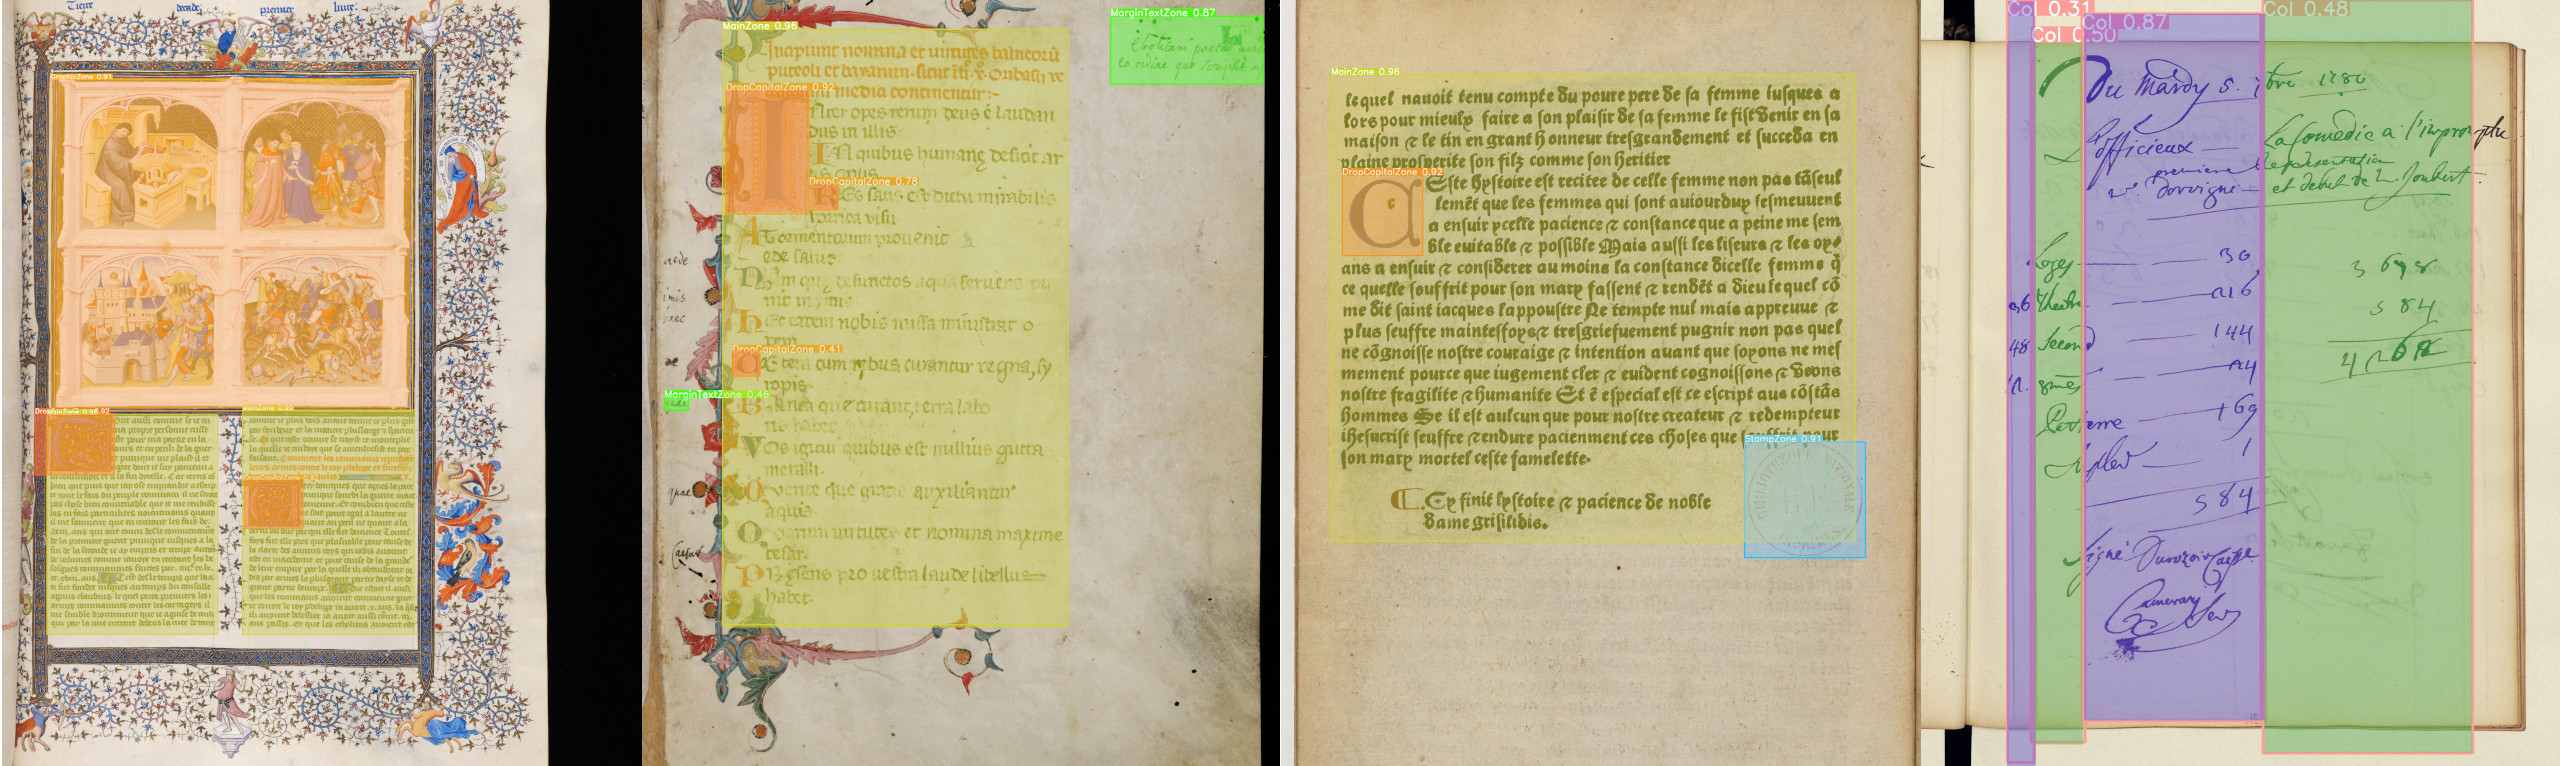
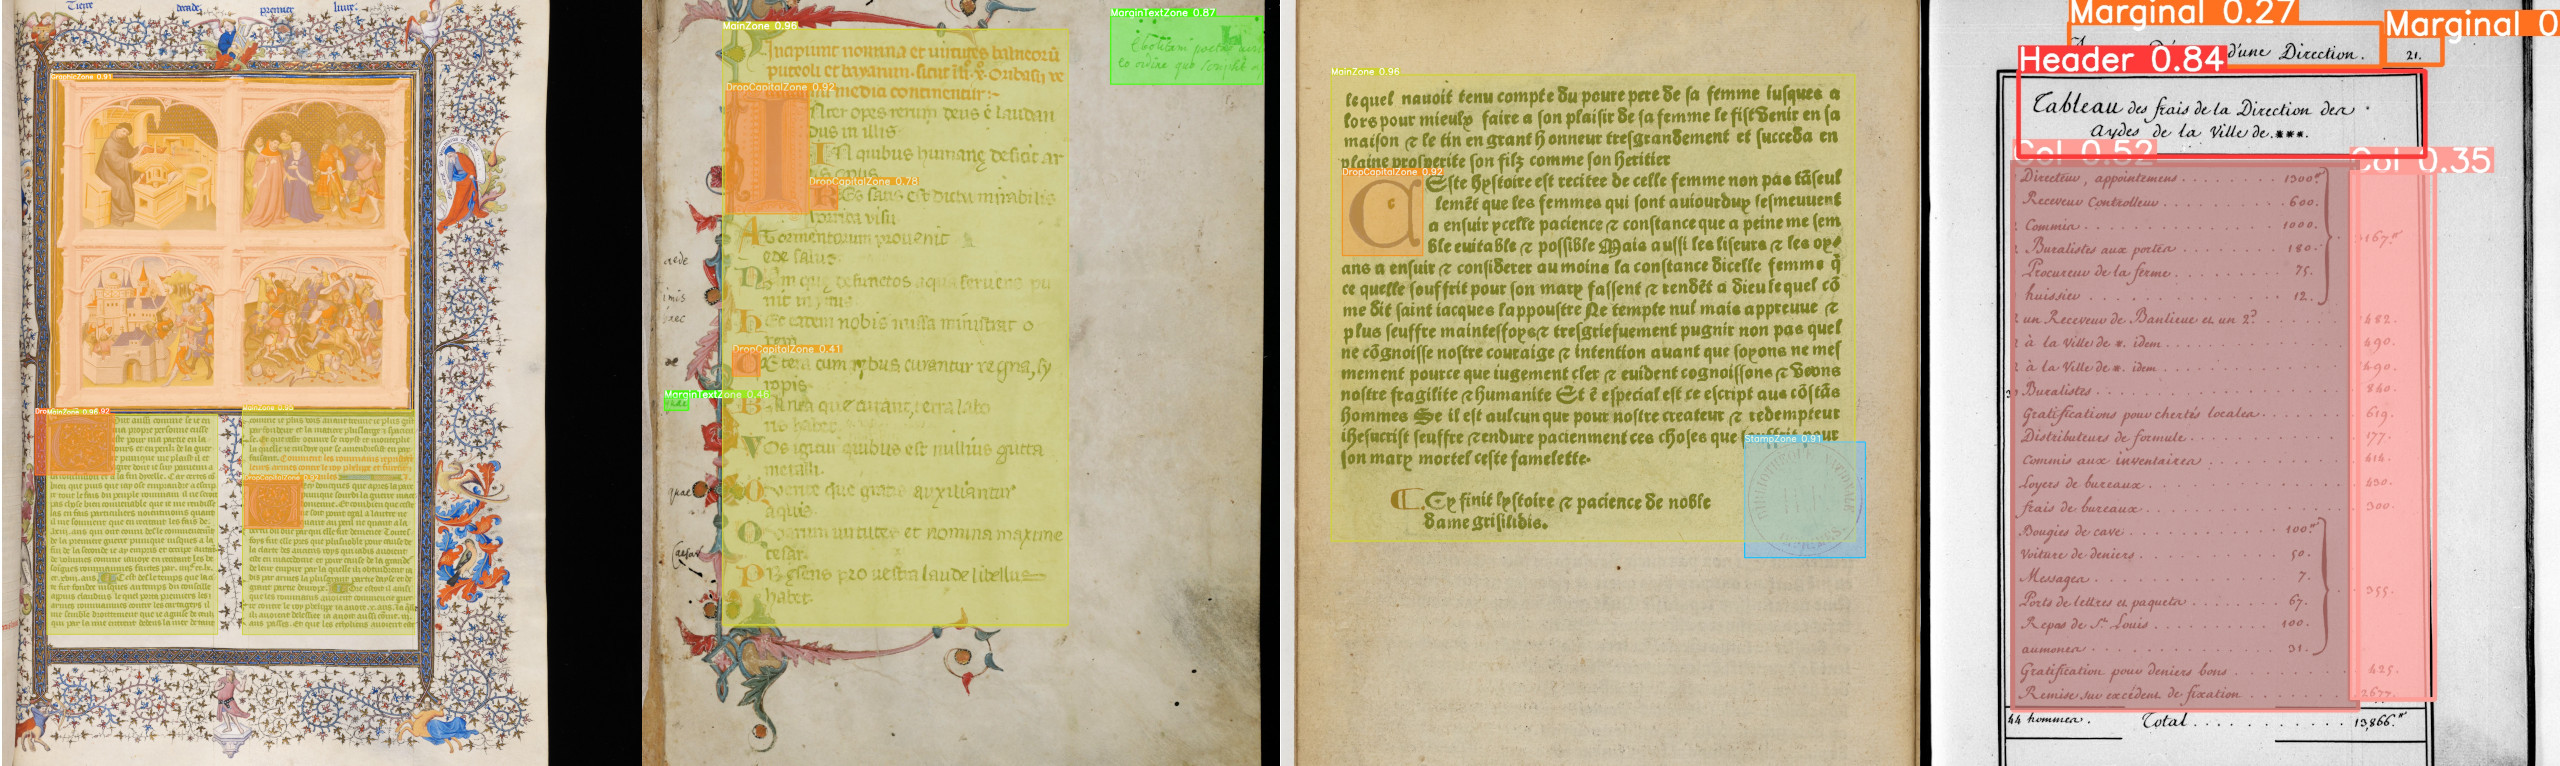
First draft

Changed region(s): [[0.75, 0.0, 1.0, 1.0]]

diff --git a/article.tex b/article.tex
@@ -217,7 +217,7 @@ The tabular dataset was produced using a single source, the \textit{Lectaurep Re
 
 The tabular dataset contains four kinds of zones: Col (Columns), Header, Marginal, Text. The test set was only annotated with Columns and Header, as marginal and text were not clearly defined. The tabular dataset was simplified from the original dataset from \citet{p2021notaires}, as it used a known hack to work ``as intended'' with Kraken. We knowingly put some stress on Kraken on this test. As Kraken relies on pixel classification and less on polygon or bounding box detection, it usually merges together regions of the same kind that are too close to each others. To reduce the effect of these merging errors, the trick learned by the community is to split zones into alternating names, such as ColOdd and ColEven. In the Lectaurep dataset, we found around 16 different way to describe columns, from Col1 to Col7, the case-different col1-col7 and finally ColPair and ColOdd, which we all reduced to Col (see Table \ref{tab:comp:tabular} for the statistical details).
 
-\begin{table}[]
+\begin{table}[ht]
     \centering
     \begin{tabular}{l|rrr|r|rr}
     \hline
@@ -235,11 +235,35 @@ The tabular dataset contains four kinds of zones: Col (Columns), Header, Margina
 
 \subsection{Model Training}
 
+Kraken models were trained according to two different configuration, one with an input resize of 1200 and a second with an input resize of 640, like the recommended YOLOv5 input size. Although Kraken recommends since recently a 1800 resized input, the training, with shuffled input, crashed mainy times because of the GPU RAM limits (roughly 11 GiB). The model was trained for 50 epochs and the best model was selected according to mAP scoring on the development set. Scoring with mAP was produced outside of Kraken as the later does not provide a best model selection.
+
+YOLOv5 models were trained with the latest commit (29d79a6) from the 2\textsuperscript{nd} of July. For both dataset, a model was trained using a YOLOv5x weights for initialization. A second YOLOv5n model was trained for the YALTAi-MSS-EPB dataset to evaluate the impact of the reduction of the size of the models on results: YOLOv5x models is advertised as a 166MiB model while YOLOv5n weights only 4MiB. Both models were trained during 50 epochs. The best model for evaluation was chosen according to YOLOv5 appointed best model.
+
+Models were trained on a Nvidia RTX2080TI with 11GiB of RAM and a TDP of 250W, on Ubuntu with CUDA 10.2 on drivers 440.118.02.
+
 \subsection{Evaluation}
+
+The evaluation is done based on mean average precision (mAP) and average precision (AP). For fairness of the evaluation and to avoid any discrepancies in calculation framework, we used \texttt{mean-average-precision==2021.4.26.0} on the converted ALTO or the YOLOv5 text format. mAP is used with an intersection over union threshold of 0.5 (Usually noted mAP@.5).
 
 \section{Experiments}
 
-\begin{table}[]
+\subsection{Results for YALTAi MSS-EPB}
+
+On the YALTAi MSS-EPB, the mAP of Kraken (6.95\%) results is largely beaten by the YOLOv5x (47.75\%) and the YOLOv5n model (34.63\%, see Table \ref{tab:scores:segmonto}). This lower results is due in part to lower results for the MainZone and DropCapital recognition, which are the most common objects in all splits (YOLOv5n, the worst performing YOLOv5 model, doubles the performance of Kraken on MainZone and nearly triples them on DropCapital). On the other hand, Kraken is also unable to beat a 0\% AP on any of the less frequent objects such as MarginText, Numbering, QuireMarks or RunningTitle, lowering its capacity to reach a higher mAP. mAP being a macro-average metric, it favors models performing on all classes rather than a few classes. However, the score discrepancy on the MainZone is important enough that it wagers using YOLOv5 instead of Kraken segmenter for extracting main body of texts.
+
+As for the difference between the nano (YOLOv5n) and the extra-large (YOLOv5x) models, the difference is small enough on the most frequent zone to accept a performance drop for a faster computation time. However, the YOLOv5X is largely beaten on less frequent classes such as MarginTextZone or NumberingZone.
+
+\subsection{Results for YALTAi-Table}
+
+The results on YALTAi table are somewhat unfair to the Kraken segmenter but shows the impact of the object detection approach on a segmentation task. As seen in the example output at Figure \ref{tab:scores:table}, Kraken is unable to distinguish multiple column and often merges the various detected zones. 
+
+On the other hand, YOLOv5x shows a very high capacity to extend to different kind of inputs as the input tabular document is not from the LECTAUREP dataset nor is the same in terms of content. At best, the document is also a printed document with various columns filled with manuscript content. In terms of genericity and ability to learn, the test results show that YOLO can learn from very few documents compared to Kraken, as it misses few columns is
+
+\subsection{Efficiency}
+
+We monitored the GPU usage in terms of memory, time and power consumption during the training of all models (see Table \ref{tab:scores:configs}). On the same system, YOLOv5 has shown a better efficiency than Kraken for each model and metric except for Kraken on the tabular dataset and power consumption. The training time seems to scale with the batch size but we are unable to confirm it, as Kraken does not allow to use batches for training. The inference time was only reported for YOLOv5 models to show the overhead that it would cost per image prediction: YOLOv5 has been designed for quasi-real time prediction on video streams, which explains the very low inference time.
+
+\begin{table}[ht]
 \resizebox{\linewidth}{!}{%}
 \begin{tabular}{l|r|rrrrrrrrr}
 \hline
@@ -249,14 +273,14 @@ YoloV5x & \textbf{47.75} & \textbf{91.7} & \textbf{48.4}  & \textbf{69.2}   &  \
 YoloV5n &         34.63  &        87.0   &         44.2   &         54.6    &         13.9   &         43.0   &         25.0   &  \textbf{48.1} & \textbf{100} \\ \hline
 \end{tabular}%
 }
-\label{tab:scores:segmonto}
 \caption{Scores of Kraken and YoloV5 best models for the Segmonto MSS and Early Printed Books Dataset. Zones (Main, Graphic, Drop Capital, Margin Text, Numbering, Quire Marks, Running Title and Stamp) are the most important zones from the test dataset. Scores for zones are the Average Precision. Both Mean Average Precision and Average Precision are given in percents. Surprisingly, YoloV5n beats YoloV5x on RunningTitle but is most often largely outperformed on other zones. Kraken is completely outperformed with YoloV5x more than doubling its scores on the main body zones, and roughly multiplying it by 7 times for the mean average precision.}
+\label{tab:scores:segmonto}
 \end{table}
 
 \begin{figure}
 \begin{minipage}{.5\linewidth}
 \centering
-\resizebox{.9\linewidth}{!}{%
+\resizebox{.75\linewidth}{!}{%
     \begin{tabular}{l|r|rrrr}
     \hline
             & mAP           & Col           & Header       \\ \hline
@@ -264,35 +288,48 @@ YoloV5n &         34.63  &        87.0   &         44.2   &         54.6    &   
     YoloV5x & \textbf{4.77} & \textbf{12.9} & \textbf{1.4} \\  \hline       
     \end{tabular}%
 }
+\caption{Scores table.}
+\label{tab:scores:table}
 \end{minipage}%
 \begin{minipage}{.5\linewidth}
 \includegraphics[width=\linewidth]{images/tableexemple.jpg}
+\caption{Example outputs on the test set}
+\label{fig:output:table}
+\corrauthor{}{}
 \end{minipage}%
-\label{tab:scores:table}
 \caption{On the left, scores of Kraken and YoloV5 best models for the Table Dataset. \textit{Col} and \textit{Header} are the only annotated zones in the test set. Scores for zones are the Average Precision. Both Mean Average Precision and Average Precision are given in percents. On the right, two example of predictions: we see that Kraken does not separate columns and merges up to four columns while YoloV5x fails to see only two columns but splits correctly the zones. See \ref{subsubsection:tabulardataset} for more explanation on the difficulties of the Kraken segmenter.}
 \end{figure}
 
 
-
-\begin{table}[]
+\begin{table}[ht]
 \resizebox{\linewidth}{!}{%}
 \begin{tabular}{l|rrrrrrrr}
 \hline
-       & Dataset  & Batch Size & Architecture & Size            & GPU Power (Max)   & GPU RAM \% (Max)   & Training Time & Prediction Time \\ \hline
-Kraken & Table    & 1          & 640          & \textbf{5 mb}   & 202.1 W           & \textbf{25.44 \%}  &  00:50        &                 \\
-YoloV5 & Table    & 2          & 5x           & 175 mb          & \textbf{157.2 W}  & 67.85              &  00:25        &                 \\\hline
-Kraken & Segmonto & 1          & 1200         &         5 mb    & 236.1 W           & 66.02 \%           &  06:27        &                 \\
-YoloV5 & Segmonto & 2          & 5x           & 175 mb          & 160.43 W          & 39.31 \%           &  03:04        & 0.025s          \\
-YoloV5 & Segmonto & 2          & 5n           & \textbf{3.9 mb} & \textbf{54.05 W}  & \textbf{11.5 \%}   &  03:11        & 0.004s          \\ \hline
+       & Dataset  & Batch Size & Architecture & Size (MiB)      & GPU Power (Max W) & GPU RAM \% (Max)   & Training Time   & Prediction Time \\ \hline
+Kraken & Table    & 1          & 640          & \textbf{5}      & 202.1             & \textbf{25.44 \%}  &  00:50          & -               \\
+YoloV5 & Table    & 2          & 5x           & 175             & \textbf{157.2  }  & 67.85              &  \textbf{00:25} & -               \\\hline
+Kraken & Segmonto & 1          & 1200         &         5       & 236.1             & 66.02 \%           &  06:27          & -               \\
+YoloV5 & Segmonto & 2          & 5x           & 175             & 160.43            & 39.31 \%           &  \textbf{03:04} & 0.025s          \\
+YoloV5 & Segmonto & 2          & 5n           & \textbf{3.9}    & \textbf{54.05  }  & \textbf{11.5 \%}   &  03:11          & \textbf{0.004s} \\ \hline
 \end{tabular}%\
 }
+\caption{Other metrics related to Kraken and YoloV5. YoloV5x produces the heaviest model (175mb, 35 times the weight of the Kraken model) but uses at most 77\% of the maximum power draw of Kraken. Training time is generally doubled under Kraken but corresponds roughly to the batch size division. Prediction time is per image. For the Segmonto model, the maximum GPU RAM usage is halved for YoloV5N, while using a batch of 2, but is nearly three times the footprint of Kraken for the Table dataset. Training occured on a NVIDIA RTX2080TI with a rated 250W of powers and 11,018MiB of RAM on drivers 440.118.02 and CUDA 10.2.}
 \label{tab:scores:configs}
-\caption{Other metrics related to Kraken and YoloV5. YoloV5x produces the heaviest model (175mb, 35 times the weight of the Kraken model) but uses at most 77\% of the maximum power draw of Kraken. Training time is generally doubled under Kraken. For the segmonto model, the maximum GPU RAM usage is halved for YoloV5N, while using a batch of 2, but is nearly three times the footprint of Kraken for the Table dataset.}
 \end{table}
 
 \section{Conclusions}
 
+Handwritten Text Recognition or Optical Character Recognition are the second step in text acquisition, right after layout analysis. However, in the main open source system used in the humanities, Kraken, the layout analysis under-performs severely on small datasets, moreover for close-neighbours same-class regions, as they are often merges. For text extraction, identifying regions is of primordial importance as they can help filter our noise from running titles or marginal addendum, for both manuscripts and printed books.
+
+In this paper, we proposed to shift the layout analysis task to an object detection task, shifting in terms of predicted output from polygons to isothetic bounding box in the context of YOLOv5. We show that YOLOv5 severely outperforms Kraken on the same dataset for region segmentation, both in terms of evaluation metrics and GPU efficiency (Power usage and RAM).
+
+The drawback of this approach lies in the bounding box limitations: bounding box limits us to regions that are rectangle and can't cover complex polygons such as P-shaped ones. We used YOLOv5 which limits us to isothetic bounding box but note that a YOLOv5 Oriented Bounding Box (YOLOv5-OBB) adaptation exists and could help for documents such as table for a ``perfect'' coverage of each column without pre-processing and deskewing.
+
+Taking advantage of the easy to use, open-sourced and openly licensed python API of Kraken, we are able to often a new package, YALTAi, which simply plugs in the YOLOv5 model before line dispatching across regions. It possess the same segmentation CLI interface as Kraken but adds a simple \texttt{--yolo} parameters that allows for selecting a YOLOv5 model for region segmentation.
+
 \subsection{Acknowledgements}
+
+This work was made possible through the funding of the DIM MAP, now DRIM PAMIR.
 
 \bibliographystyle{plainnat}
 \bibliography{article}
